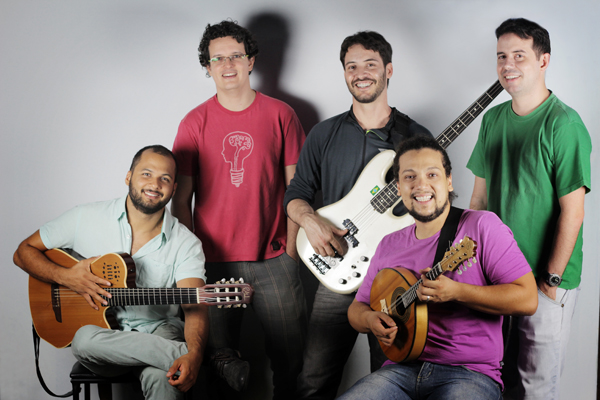
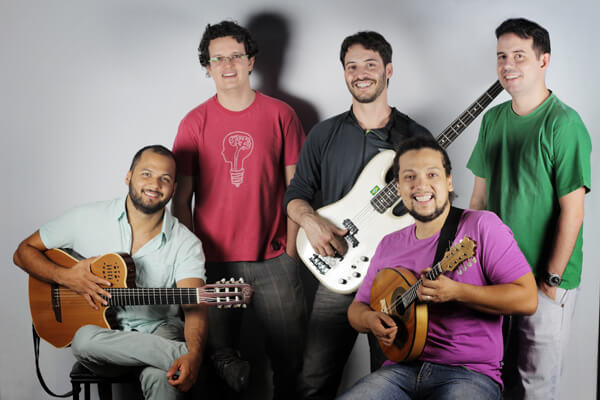
Add social networks handlers and compressed images

diff --git a/index.html b/index.html
@@ -6,6 +6,14 @@
     <meta name="viewport" content="width=device-width, initial-scale=1">
     <!-- The above 3 meta tags *must* come first in the head; any other head content must come *after* these tags -->
     <title>Macaxeira Jazz</title>
+    <link rel="canonical" href="http://macaxeirajazz.com">
+    <meta property="og:locale" content="pt_PT">
+    <meta property="og:type" content="music.musician">
+    <meta property="og:title" content="Macaxeira Jazz">
+    <meta property="og:url" content="http://macaxeirajazz.com">
+    <meta property="og:site_name" content="Macaxeira Jazz">
+    <meta name="twitter:card" content="summary">
+    <meta name="twitter:title" content="Macaxeira Jazz">
 
     <!-- Latest compiled and minified CSS -->
     <link rel="stylesheet" href="https://maxcdn.bootstrapcdn.com/bootstrap/3.3.7/css/bootstrap.min.css">
@@ -20,7 +28,7 @@
 
   <body>
     <div id="brand">
-      <img class="cover" src='assets/images/band/cover-1.jpg' />
+      <img class="cover" src='assets/images/band/cover.jpg' />
 
       <div style="min-height: 85px;">
         <nav class="navbar" id="header">

diff --git a/assets/js/app.js b/assets/js/app.js
@@ -27,7 +27,7 @@ $(document).ready(function() {
     e.preventDefault();
 
     $.ajax({
-      url: 'http://formspree.io/luanfonceca@gmail.com',
+      url: 'http://formspree.io/contato@macaxeirajazz.com',
       method: 'POST',
       data: $(this).serialize(),
       dataType: 'json',
